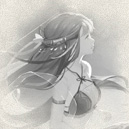
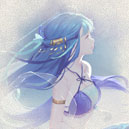
hover

diff --git a/src/single/rhyme/index.less b/src/single/rhyme/index.less
@@ -50,6 +50,23 @@
       border-radius:100%;
       background:url(jrj.jpg) no-repeat center;
       background-size:contain;
+      &:after{
+        position:absolute;
+        left:0;
+        top:0;
+        width:100%;
+        height:100%;
+        border-radius:100%;
+        display:block;
+        content:' ';
+        background:url(jrj_on.jpg) no-repeat center;
+        background-size:contain;
+        opacity:0;
+        transition:opacity 0.2s;
+      }
+      &:hover:after{
+        opacity:1;
+      }
     }
   }
 }
